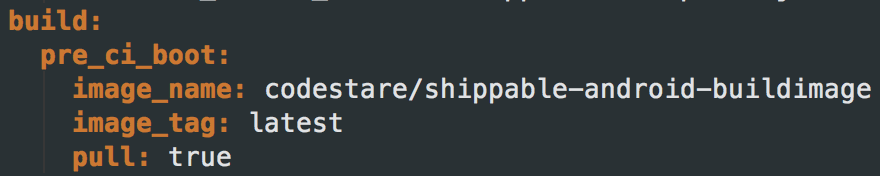
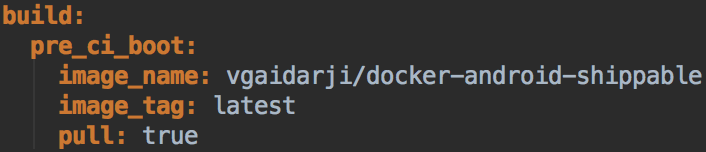
Update SHIPPABLE.md documentation with new Docker image

diff --git a/SHIPPABLE.md b/SHIPPABLE.md
@@ -38,7 +38,7 @@ More info about configuration file can found [here](http://docs.shippable.com/ci
 
     <img src="/screenshots/shippable_docker_image.png">
     
-    It's good idea to check what provides docker image by checking it's Dockerfile ([codestare/shippable-android-buildimage](https://hub.docker.com/r/codestare/shippable-android-buildimage/~/dockerfile/)).
+    It's good idea to check what provides docker image by checking it's Dockerfile ([vgaidarji/docker-android-shippable](https://hub.docker.com/r/vgaidarji/docker-android-shippable/~/dockerfile/)).
     
 5. Configure [build steps](http://docs.shippable.com/ci/shippableyml/) in `shippable.yml`:
 
